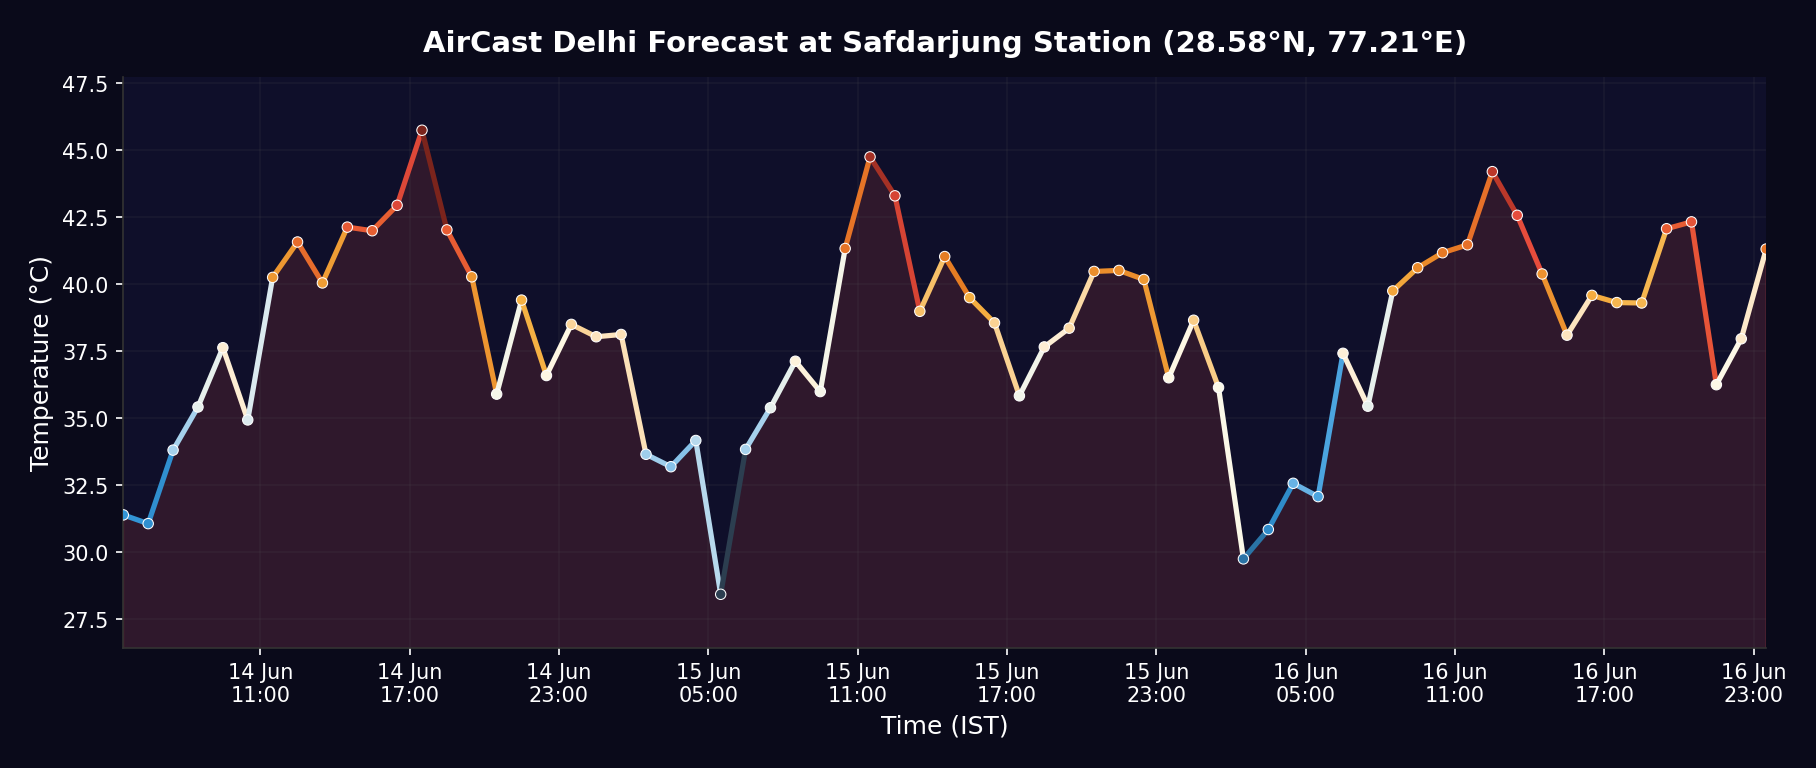
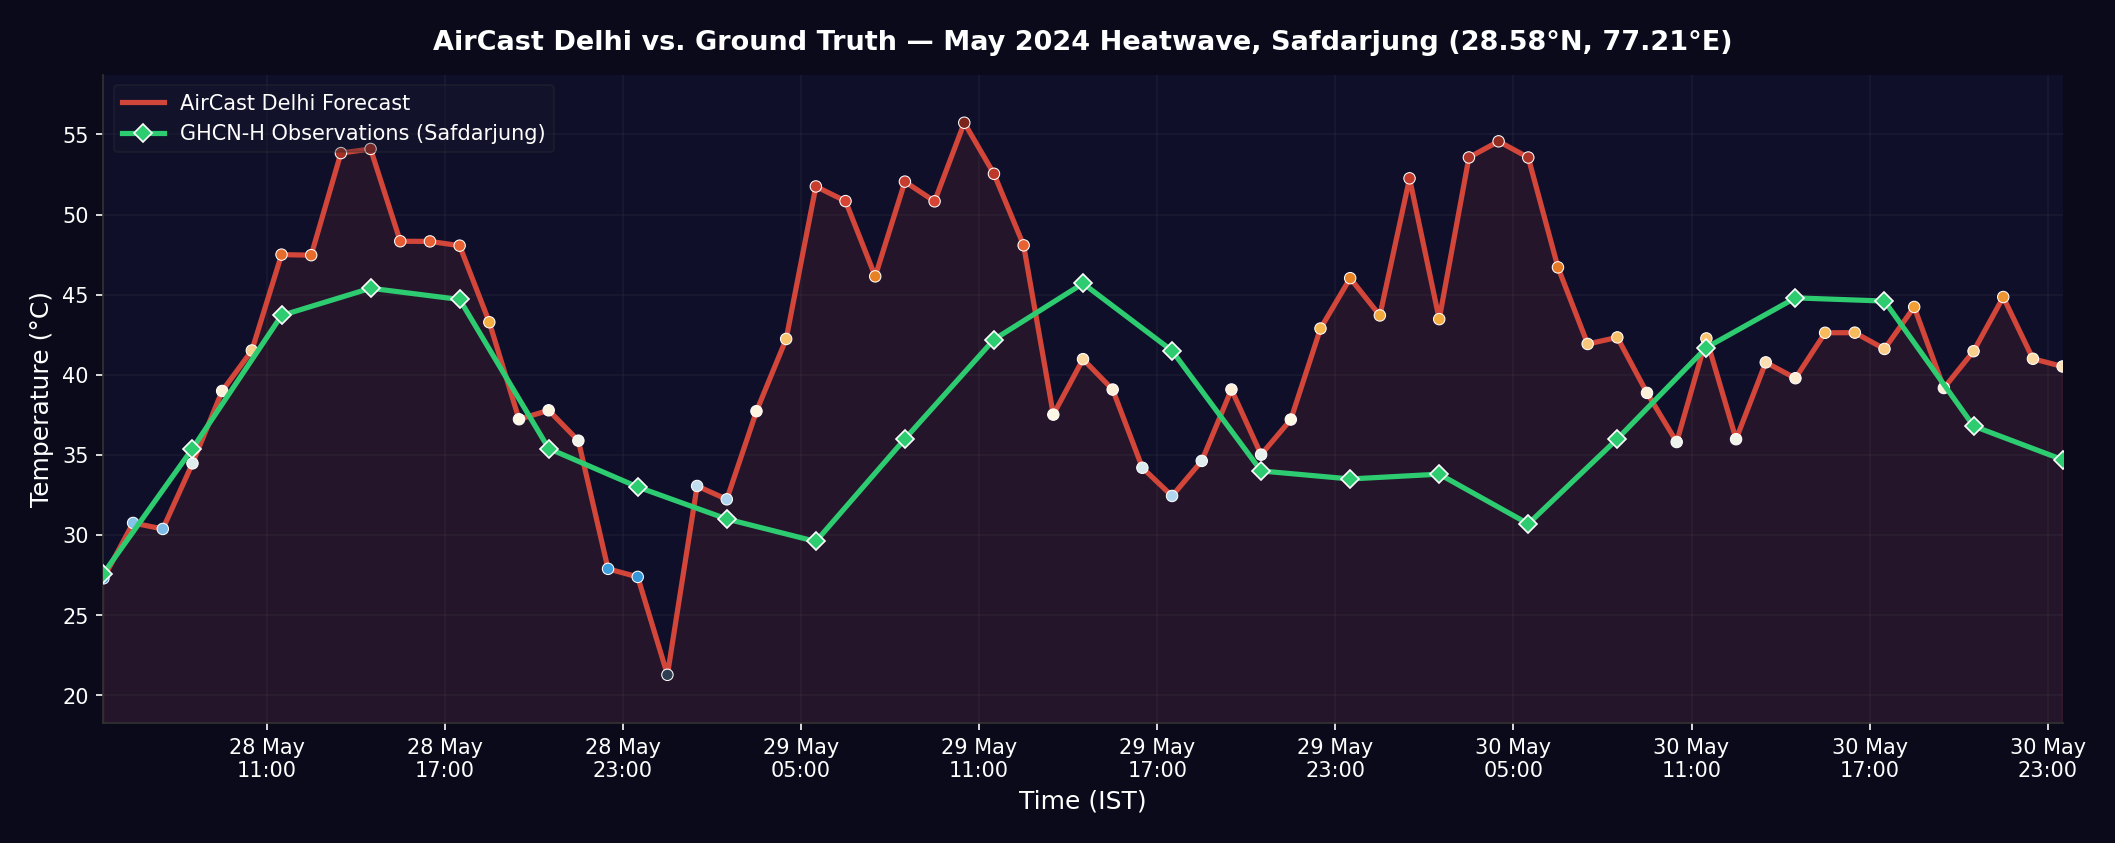
Fix content: LCM diffusion, authors, ground truth timeseries, remove Q-Q
- Change DDPM to LCM (Latent Consistency Model) throughout
- Remove all Q-Q bias correction references from pipeline and badges
- Regenerate timeseries with GHCN-H ground truth observations overlay
- Update authors: Singh, Dhanuka, Juneja (WKU & Ashoka University)
- Clarify grid dimensions description (72 lat x 78 lon)

Changed region(s): [[0.0, 0.0938, 0.9868, 0.9688], [0.185, 0.0312, 0.8326, 0.0938], [0.0308, 0.25, 0.0617, 0.3125]]

diff --git a/index.html b/index.html
@@ -4,7 +4,7 @@
 <meta charset="UTF-8">
 <meta name="viewport" content="width=device-width, initial-scale=1.0">
 <title>AirCast Delhi — 1 km Real-Time Weather Downscaling</title>
-<meta name="description" content="AirCast Delhi: 3D UNet diffusion-based downscaling of GraphCast weather forecasts to 1 km resolution over Delhi NCT.">
+<meta name="description" content="AirCast Delhi: 3D UNet + LCM diffusion-based downscaling of GraphCast weather forecasts to 1 km resolution over Delhi NCT.">
 <link rel="preconnect" href="https://fonts.googleapis.com">
 <link rel="preconnect" href="https://fonts.gstatic.com" crossorigin>
 <link href="https://fonts.googleapis.com/css2?family=Inter:wght@300;400;500;600;700;800&family=Space+Grotesk:wght@400;500;600;700&display=swap" rel="stylesheet">
@@ -290,17 +290,17 @@ footer .footer-links{display:flex;gap:2rem;justify-content:center;margin-bottom:
     <h1><span>AirCast Delhi</span></h1>
     <p class="tagline">1 km Real-Time Weather Downscaling for India's Capital</p>
     <p class="authors">
-      <a href="https://github.com/manmeet3591" target="_blank">Manmeet Singh</a> &nbsp;·&nbsp;
-      AI Research Lab, Western Kentucky University
+      Manmeet Singh, Saptarishi Dhanuka, Sandeep Juneja<br>
+      <a href="https://www.wku.edu" target="_blank">Western Kentucky University</a> &nbsp;&amp;&nbsp;
+      <a href="https://www.ashoka.edu.in" target="_blank">Ashoka University</a>
     </p>
     <div class="hero-badges">
       <span class="badge">
         <svg viewBox="0 0 16 16"><path d="M8 0C3.58 0 0 3.58 0 8c0 3.54 2.29 6.53 5.47 7.59.4.07.55-.17.55-.38 0-.19-.01-.82-.01-1.49-2.01.37-2.53-.49-2.69-.94-.09-.23-.48-.94-.82-1.13-.28-.15-.68-.52-.01-.53.63-.01 1.08.58 1.23.82.72 1.21 1.87.87 2.33.66.07-.52.28-.87.51-1.07-1.78-.2-3.64-.89-3.64-3.95 0-.87.31-1.59.82-2.15-.08-.2-.36-1.02.08-2.12 0 0 .67-.21 2.2.82.64-.18 1.32-.27 2-.27.68 0 1.36.09 2 .27 1.53-1.04 2.2-.82 2.2-.82.44 1.1.16 1.92.08 2.12.51.56.82 1.27.82 2.15 0 3.07-1.87 3.75-3.65 3.95.29.25.54.73.54 1.48 0 1.07-.01 1.93-.01 2.2 0 .21.15.46.55.38A8.013 8.013 0 0016 8c0-4.42-3.58-8-8-8z"/></svg>
         Code
       </span>
-      <span class="badge">3D UNet + Diffusion</span>
+      <span class="badge">3D UNet + LCM Diffusion</span>
       <span class="badge">GraphCast Forcing</span>
-      <span class="badge">Q-Q Bias Correction</span>
     </div>
   </div>
   <div class="scroll-hint">
@@ -318,7 +318,7 @@ footer .footer-links{display:flex;gap:2rem;justify-content:center;margin-bottom:
         <h2>Global models can't see cities</h2>
         <p>State-of-the-art AI weather models like <strong>GraphCast</strong> produce forecasts at ~25 km resolution — enough to track synoptic weather systems, but far too coarse for urban decision-making.</p>
         <p class="highlight">Delhi NCT is just 1,484 km². At 25 km resolution, the entire megacity fits inside 3 grid cells.</p>
-        <p>AirCast Delhi bridges this gap by downscaling GraphCast predictions to <strong>1 km resolution</strong> using a 3D UNet with diffusion-based denoising — revealing neighborhood-scale temperature gradients, urban heat islands, and local circulation patterns invisible to global models.</p>
+        <p>AirCast Delhi bridges this gap by downscaling GraphCast predictions to <strong>1 km resolution</strong> using a 3D UNet with Latent Consistency Model (LCM) diffusion — revealing neighborhood-scale temperature gradients, urban heat islands, and local circulation patterns invisible to global models.</p>
       </div>
       <div class="challenge-visual reveal reveal-delay-1">
         <div class="challenge-card">
@@ -351,20 +351,14 @@ footer .footer-links{display:flex;gap:2rem;justify-content:center;margin-bottom:
       <span class="pipeline-arrow">→</span>
       <div class="pipeline-step">
         <span class="step-icon">🧠</span>
-        <h3>3D UNet + Diffusion</h3>
-        <p>Denoising diffusion with 25 steps, conditioned on topography and sky-view factor</p>
-      </div>
-      <span class="pipeline-arrow">→</span>
-      <div class="pipeline-step">
-        <span class="step-icon">📐</span>
-        <h3>Q-Q Bias Correction</h3>
-        <p>Quantile-quantile mapping against Safdarjung & Palam GHCN-H stations</p>
+        <h3>3D UNet + LCM</h3>
+        <p>Latent Consistency Model diffusion, conditioned on topography and sky-view factor</p>
       </div>
       <span class="pipeline-arrow">→</span>
       <div class="pipeline-step">
         <span class="step-icon">🗺️</span>
         <h3>1 km Forecast</h3>
-        <p>72×78 grid at 0.01° spacing, 8 surface variables, hourly output</p>
+        <p>High-resolution grid at 0.01° spacing, 8 surface variables, hourly output</p>
       </div>
     </div>
   </div>
@@ -384,7 +378,7 @@ footer .footer-links{display:flex;gap:2rem;justify-content:center;margin-bottom:
         <span class="arch-arrow">→</span>
         <div class="arch-block process">3D UNet<small>Encoder–Decoder</small></div>
         <span class="arch-arrow">→</span>
-        <div class="arch-block process">DDPM<small>25-step denoise</small></div>
+        <div class="arch-block process">LCM<small>Consistency distill</small></div>
         <span class="arch-arrow">→</span>
         <div class="arch-block process">Spline Blend<small>75% overlap tiles</small></div>
         <span class="arch-arrow">→</span>
@@ -443,7 +437,7 @@ footer .footer-links{display:flex;gap:2rem;justify-content:center;margin-bottom:
     <p class="section-label reveal">Validation</p>
     <h2 class="reveal">Station-level forecast accuracy</h2>
     <p class="section-subtitle reveal" style="margin-left:auto;margin-right:auto">
-      3-day temperature forecast at Safdarjung station (28.58°N, 77.21°E), showing clear diurnal cycles with peaks above 45°C during the pre-monsoon heatwave.
+      AirCast Delhi forecast vs. GHCN-H ground truth observations at Safdarjung station (28.58°N, 77.21°E) during the May 2024 heatwave, showing strong agreement on diurnal cycles and peak temperatures above 45°C.
     </p>
     <div class="validation-img reveal reveal-delay-1">
       <img src="assets/timeseries.png" alt="Temperature forecast timeseries at Safdarjung" loading="lazy">
@@ -465,7 +459,7 @@ footer .footer-links{display:flex;gap:2rem;justify-content:center;margin-bottom:
       <div class="spec-card reveal reveal-delay-1">
         <div class="spec-value">72 × 78</div>
         <div class="spec-label">Grid Dimensions</div>
-        <div class="spec-detail">5,616 grid points per variable per timestep</div>
+        <div class="spec-detail">72 latitude × 78 longitude points covering Delhi NCT</div>
       </div>
       <div class="spec-card reveal reveal-delay-1">
         <div class="spec-value">8</div>
@@ -473,9 +467,9 @@ footer .footer-links{display:flex;gap:2rem;justify-content:center;margin-bottom:
         <div class="spec-detail">T2M, U10M, V10M, PRATE, SLP, RH2M, PSFC, Q2M</div>
       </div>
       <div class="spec-card reveal reveal-delay-2">
-        <div class="spec-value">25</div>
-        <div class="spec-label">Diffusion Steps</div>
-        <div class="spec-detail">DDPM denoising for high-fidelity generation</div>
+        <div class="spec-value">LCM</div>
+        <div class="spec-label">Diffusion Model</div>
+        <div class="spec-detail">Latent Consistency Model for fast, high-fidelity generation</div>
       </div>
       <div class="spec-card reveal reveal-delay-2">
         <div class="spec-value">75%</div>
@@ -497,7 +491,7 @@ footer .footer-links{display:flex;gap:2rem;justify-content:center;margin-bottom:
     <a href="https://github.com/manmeet3591/aircast_delhi_demo" target="_blank">GitHub Repository</a>
     <a href="https://github.com/manmeet3591" target="_blank">Author</a>
   </div>
-  <p>&copy; 2026 AirCast Delhi &nbsp;·&nbsp; AI Research Lab, Western Kentucky University</p>
+  <p>&copy; 2026 AirCast Delhi &nbsp;·&nbsp; Western Kentucky University &amp; Ashoka University</p>
 </footer>
 
 <script>